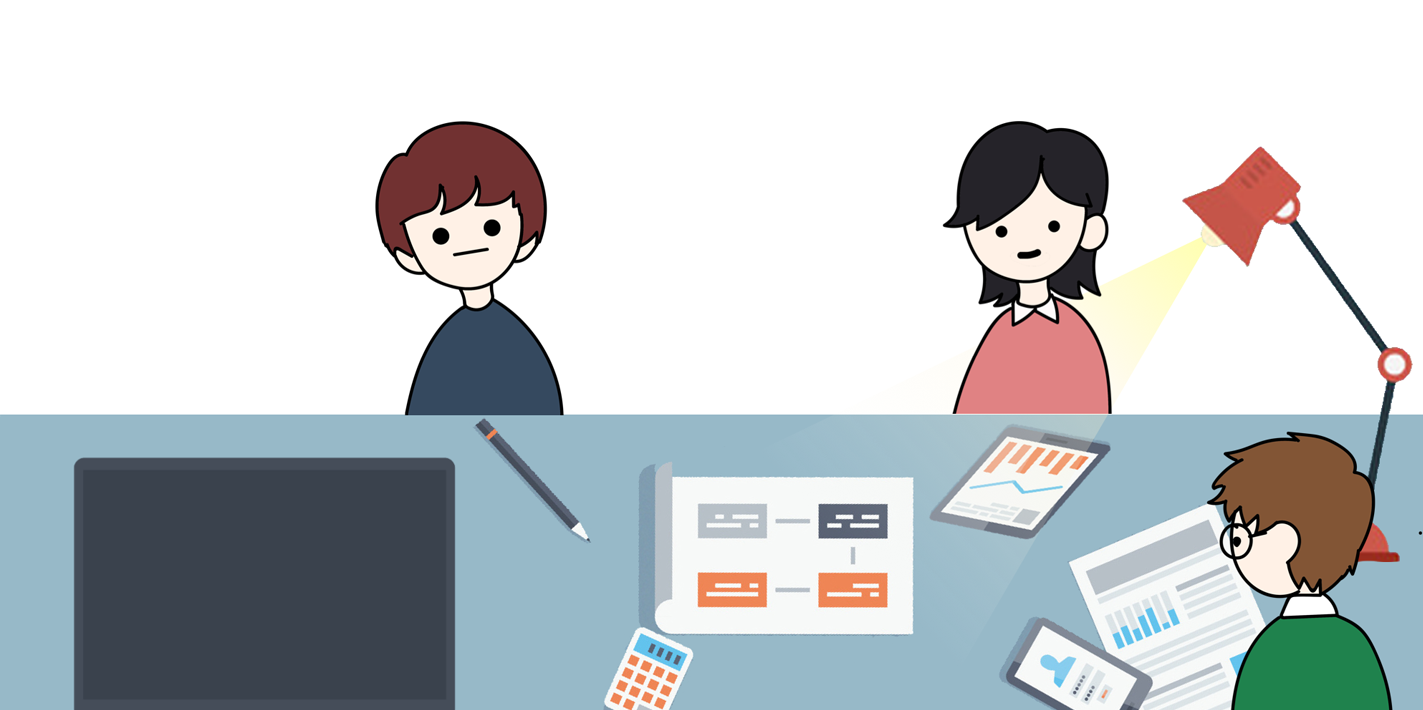
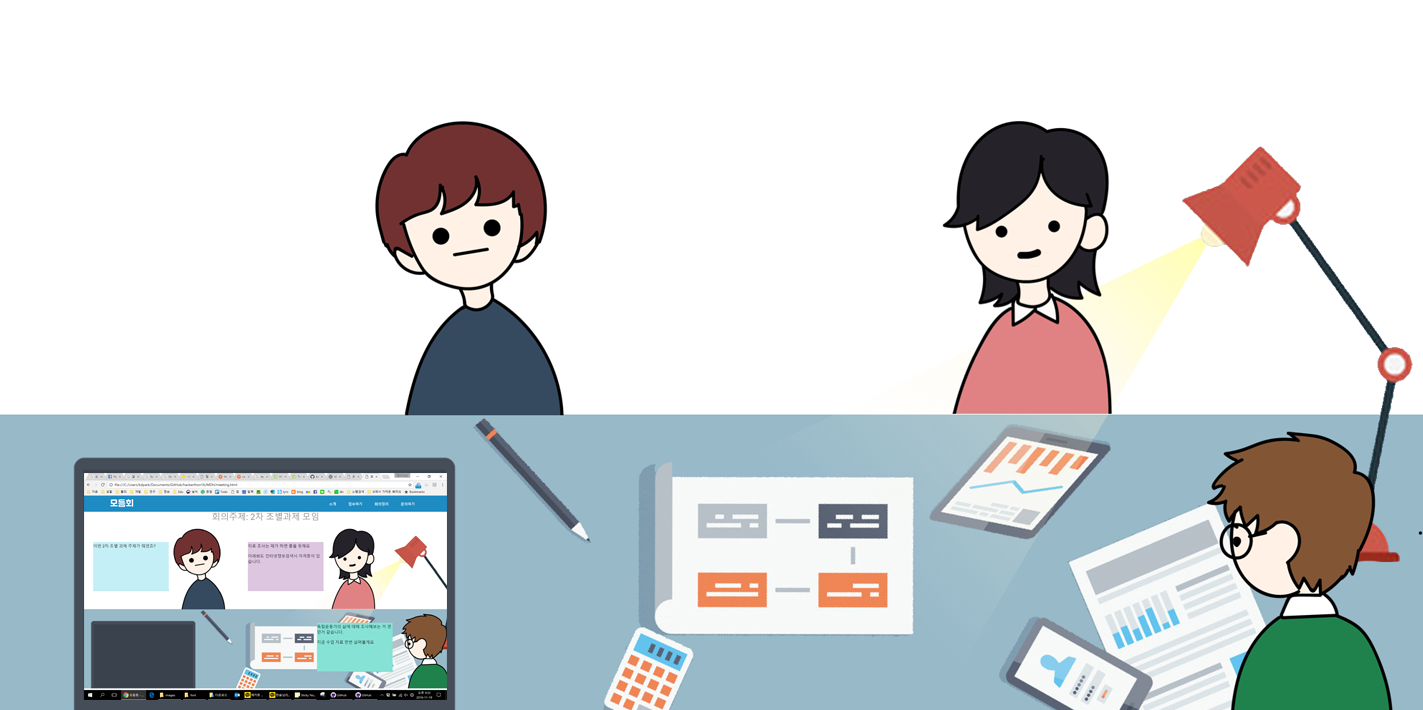
회의실 UI

Changed region(s): [[0.0618, 0.6507, 0.3401, 0.9915]]

diff --git a/MDH/meeting.html b/MDH/meeting.html
@@ -103,14 +103,31 @@
 
 				<a name="top"></a>
 
-				<div class="android-screen-section mdl-typography--text-center modu-meeting" style="">
+				<div class="android-screen-section mdl-typography--text-center modu-meeting" style="padding-top: 0px;padding-bottom: 140px">
 					<a name="screens"></a>
 
 
-					<div class="mdl-typography--display-1-color-contrast">방 이름</div>
-					<br><br>
-					<p>환영합니다.</p>
+					<div class="mdl-typography--display-1-color-contrast">회의주제: 2차 조별과제 모임</div>
+					
+					<div class="mdl-textfield mdl-js-textfield">
 
+						<textarea class="mdl-textfield__input" type="text" rows= "5" id="sample5" style="position:absolute; left:-230px; top:80px; background-color: #C5EFF7; font-size: 30px; border-style: solid; border-width: 10px 10px 10px 10px; border-color: #E74C3C"></textarea>
+						<label class="mdl-textfield__label" for="sample5"></label>
+					</div>
+
+					<div class="mdl-textfield mdl-js-textfield">
+						<textarea class="mdl-textfield__input" type="text" rows= "5" id="sample5" style="position:absolute; left:80px; top:80px; background-color: #DCC6E0; font-size: 30px"></textarea>
+						<label class="mdl-textfield__label" for="sample5"></label>
+					</div>
+
+					<div class="mdl-textfield mdl-js-textfield">
+						<textarea class="mdl-textfield__input" type="text" rows= "5" id="sample5" style="position:absolute; left:50px; top:400px;  background-color: #86E2D5; font-size: 30px"></textarea>
+						<label class="mdl-textfield__label" for="sample5"></label>
+					</div>
+
+					<p style="position:absolute; left:440px; top:350px; color: white; font-size: 20px">양현종 </p>
+					<p style="position:absolute; left:1040px; top:350px; color: white; font-size: 20px">최형우 </p>
+					<p style="position:absolute; left:1340px; top:650px; color: white; font-size: 20px">차우찬 </p>
 
 					
 					

diff --git a/MDH/styles.css b/MDH/styles.css
@@ -190,9 +190,10 @@ a img{
   height: 560px;
   width: auto;
   background-color: #f0f0f0;
-  background: url('images/meeting.jpg') center 30% no-repeat;
-  background-size: cover;
-  background-attachment: fixed;
+  background: url('images/conn.png') center 30% no-repeat;
+  background-size: contain;
+  background-attachment: fixed; 
+  background-position: 0% 100%
 }
 
 .modu-meeting {
